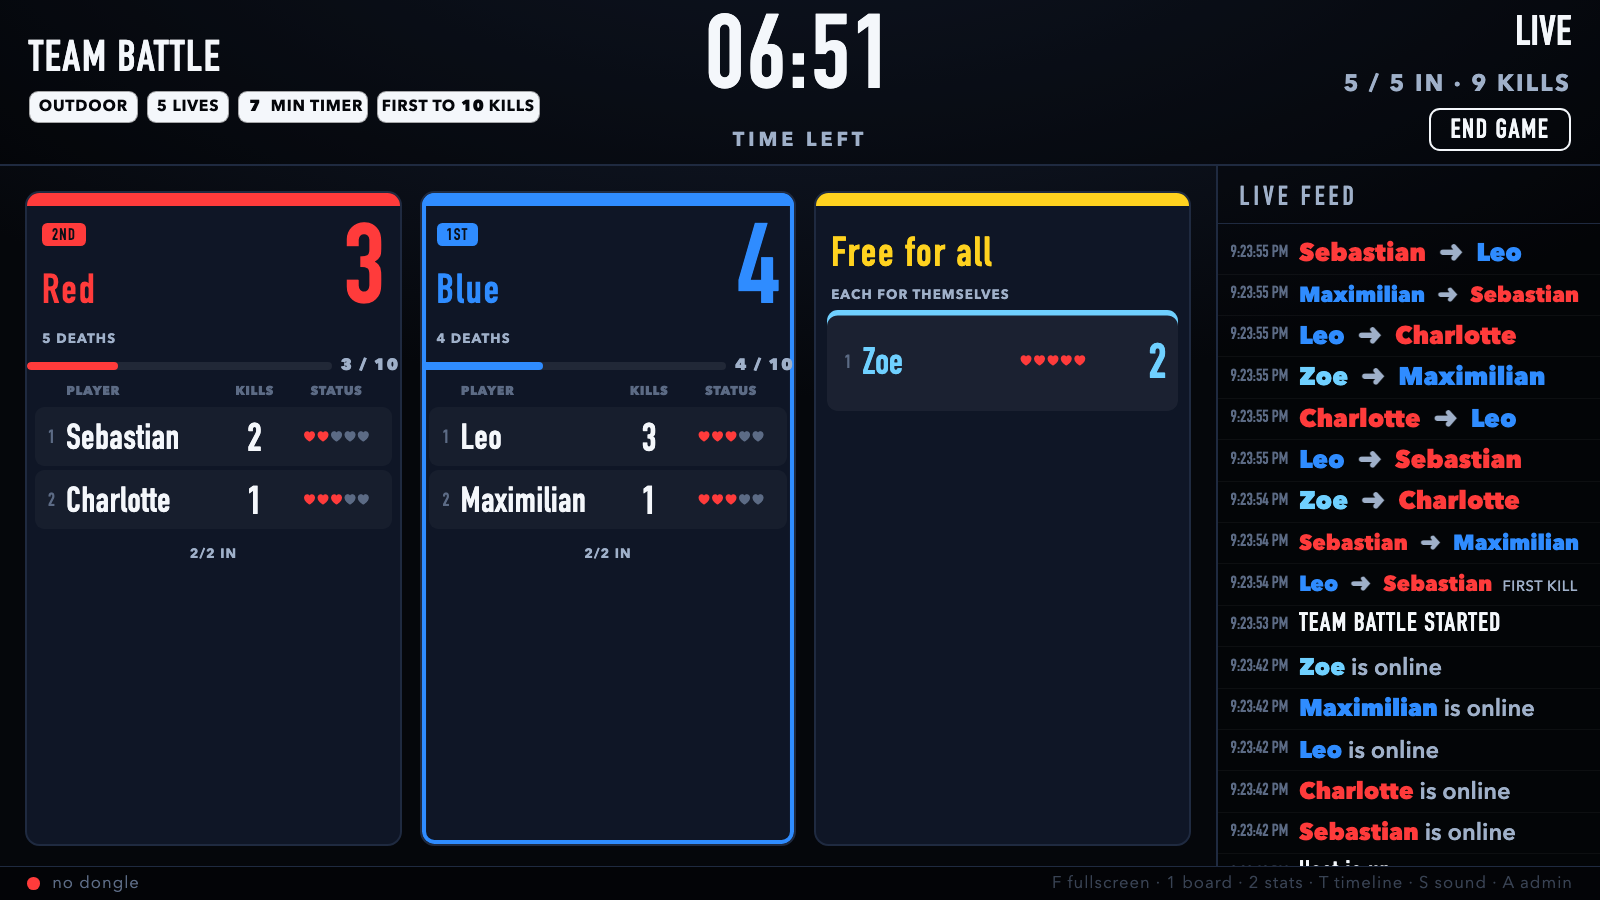
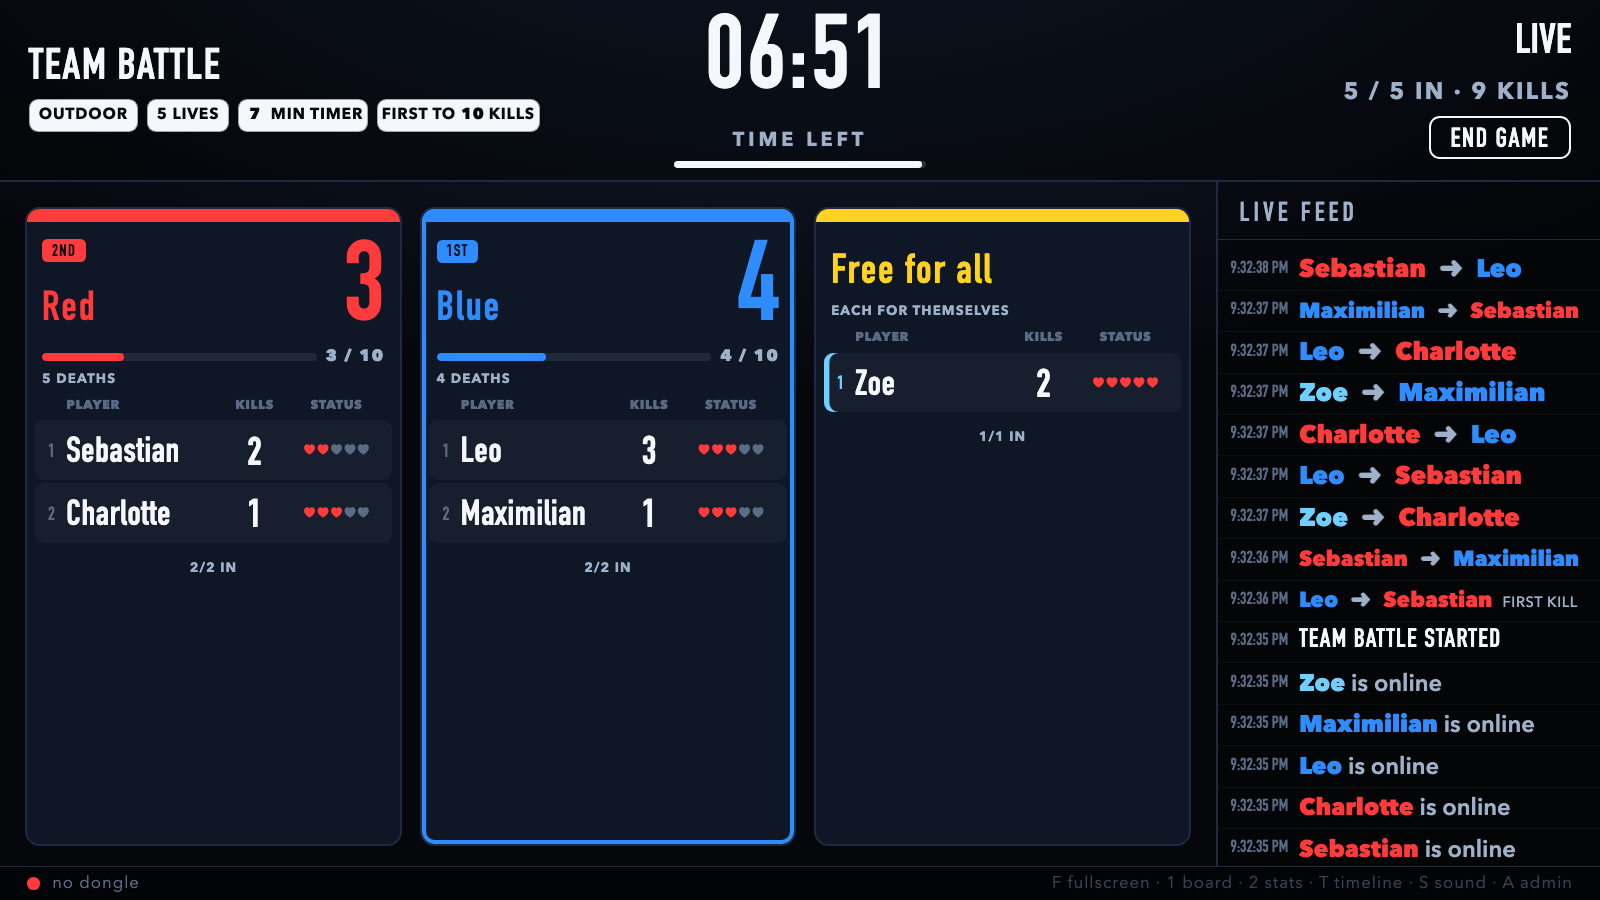
Wall: wolves as roster rows, target bar above deaths, time bar under the clock
Lone wolves get the same row as anyone on a team (white name, their colour as an
accent, PLAYER / KILLS / STATUS header). The kill-target bar sits under the score with
the column's own padding, before the deaths line. A white bar under the clock drains
with the timer.

diff --git a/web/wall.js b/web/wall.js
@@ -167,6 +167,9 @@
     const g = snap.game, c = g.clock || {};
     const el = $("clock"), lbl = $("clockLabel");
     el.className = "clock";
+    const bar = $("clockBar"), fill = $("clockFill");
+    const barOn = !!(c.limit_s && c.elapsed_s != null && g.phase === "live");
+    if (bar) bar.classList.toggle("on", barOn);
     if (g.phase === "idle") { el.textContent = new Date().toLocaleTimeString([], { hour: "numeric", minute: "2-digit" }); lbl.textContent = "WAITING FOR A GAME"; return; }
     if (g.phase === "lobby") { el.textContent = "READY"; lbl.textContent = "PICK TEAMS · HOST STARTS"; return; }
     let elapsed = c.elapsed_s;
@@ -174,6 +177,7 @@
     if (elapsed == null) { el.textContent = "--:--"; lbl.textContent = ""; return; }
     if (c.limit_s) {
       const left = c.limit_s - elapsed;
+      if (fill) fill.style.width = `${Math.max(0, Math.min(100, 100 * left / c.limit_s))}%`;
       el.textContent = W.mmss(left);
       if (left <= 0) { el.textContent = g.phase === "ended" ? W.mmss(Math.min(elapsed, c.limit_s)) : "0:00"; el.classList.add("over"); lbl.textContent = g.phase === "ended" ? (g.end_reason === "time_expired" ? "TIME'S UP · FINAL" : "FINAL TIME") : "TIME! WAITING FOR HOST"; }
       else { if (left < 60) el.classList.add("warn"); lbl.textContent = g.phase === "ended" ? "TIME LEFT AT END" : "TIME LEFT"; }
@@ -502,8 +506,9 @@
   function wolvesHtml(list, wd, showStatus, maxRows) {
     list = list.sort(scoreSort);
     const ranks = rankLabels(list, scoreKey);
-    const cards = list.map((p, i) => `<div class="wolf ${p.eliminated ? "out" : ""} ${p.online ? "" : "offline"}" style="--tc:${pColor(p)}" data-n="${p.number}" data-key="w-${p.number}"><span class="w-rank">${ranks[i]}</span><span class="w-name">${W.esc(p.display_name)}</span><span class="w-status" data-f="lives">${showStatus ? livesHtml(p) : ""}</span><span class="w-score" data-f="kills">${p.kills}</span></div>`).join("");
-    return `<div class="team-col wolves ${list.length >= 6 ? "dense" : ""}" style="--tc:var(--t2);--rows:${maxRows}" data-key="col2"><div class="team-head"><div class="team-name">${teamName(2)}</div><div class="team-score lone"></div></div><div class="team-sub">EACH FOR THEMSELVES</div><div class="wolf-stack">${cards}</div></div>`;
+    const rows = list.map((p, i) => `<div class="p-row wolf ${p.eliminated ? "out" : ""} ${p.online ? "" : "offline"}" style="--tc:${pColor(p)}" data-n="${p.number}" data-key="w-${p.number}"><span class="p-rank">${ranks[i]}</span><span class="p-name">${W.esc(p.display_name)}</span><span class="p-k" data-f="kills">${p.kills}</span><span class="p-d" data-f="deaths">${p.deaths}</span><span class="p-status" data-f="lives">${livesHtml(p)}</span></div>`).join("");
+    const foot = showStatus && list.length ? `<div class="team-foot">${list.filter(p => p.alive).length}/${list.length} IN</div>` : "";
+    return `<div class="team-col wolves ${maxRows >= 6 ? "dense" : ""}" style="--tc:var(--t2);--rows:${maxRows}" data-key="col2"><div class="team-head"><div class="team-name">${teamName(2)}</div><div class="team-score lone"></div></div><div class="team-sub">EACH FOR THEMSELVES</div><div class="roster"><div class="roster-head"><span></span><span>PLAYER</span><span>${wd.K}</span><span>${wd.D}</span><span>STATUS</span></div>${rows}</div>${foot}</div>`;
   }
 
   // ---- host mode: this board as the admin headset ----------------------------------
@@ -728,7 +733,7 @@
       const label = tiedWith === sides ? "TIED" : (tiedWith > 1 ? `TIED ${ordinal}` : ordinal);
       const rankPill = !lone && topScore > 0 && !squads ? `<div class="team-rank">${label}</div>` : "";
       if (lone) parts.length = 0, parts.push("EACH FOR THEMSELVES");
-      return `<div class="team-col ${maxRows >= 6 ? "dense" : ""} ${lead ? "lead" : ""}" style="--tc:${tc};--rows:${maxRows}" data-key="col${t}">${rankPill}<div class="team-head"><div class="team-name">${tname}</div><div class="team-score${lone ? " lone" : ""}" data-team="${t}">${lone ? "" : (row.score ?? row.kills)}</div></div>${sub}${target}<div class="roster"><div class="roster-head"><span></span><span>PLAYER</span><span>${wd.K}</span><span>${wd.D}</span><span>STATUS</span></div>${rows}</div>${showStatus ? `<div class="team-foot">${row.alive}/${list.length} IN</div>` : ""}</div>`;
+      return `<div class="team-col ${maxRows >= 6 ? "dense" : ""} ${lead ? "lead" : ""}" style="--tc:${tc};--rows:${maxRows}" data-key="col${t}">${rankPill}<div class="team-head"><div class="team-name">${tname}</div><div class="team-score${lone ? " lone" : ""}" data-team="${t}">${lone ? "" : (row.score ?? row.kills)}</div></div>${target}${sub}<div class="roster"><div class="roster-head"><span></span><span>PLAYER</span><span>${wd.K}</span><span>${wd.D}</span><span>STATUS</span></div>${rows}</div>${showStatus ? `<div class="team-foot">${row.alive}/${list.length} IN</div>` : ""}</div>`;
     }).join("");
     if (order.length === 1 && order[0] !== 2) {
       // A team battle always has at least two teams: hold the second slot open instead of

diff --git a/web/styles.css b/web/styles.css
@@ -302,16 +302,6 @@ body{font-size:2.4vmin;line-height:1.2}
 .team-score.lone{visibility:hidden}
 
 /* ---------- lone wolves: one card per free-for-all player, stacked in the free-for-all column ---------- */
-.team-col.wolves .wolf-stack{display:flex;flex-direction:column;gap:1vmin;padding:0 3cqw 1.4vmin;min-height:0;flex:1}
-.wolf{display:grid;grid-template-columns:5cqw minmax(0,1fr) 22cqw 16cqw;align-items:center;gap:1.5cqw;padding:.8vmin 3cqw;border-radius:1.2vmin;background:rgba(255,255,255,.05);box-shadow:inset 0 .6vmin 0 0 var(--tc);min-height:0;flex:0 1 calc(var(--rowh,9vmin) * 1.7);overflow:hidden}
-.wolf.out{opacity:.45}
-.wolf .w-rank{font-family:var(--display);font-size:clamp(1.5vmin,5cqw,2.8vmin);color:var(--ink3);text-align:center;position:relative;top:var(--nudge-display)}
-.wolf .w-name{font-family:var(--display);font-size:min(clamp(2.6vmin,10cqw,4.6vmin),calc(var(--rowh,9vmin) * .8));color:var(--tc);white-space:nowrap;overflow:hidden;min-width:0;line-height:1.25;position:relative;top:var(--nudge-display)}
-.wolf .w-status{text-align:center;font-size:clamp(1.3vmin,4cqw,2vmin);font-weight:800;letter-spacing:.08em;text-transform:uppercase}
-.wolf .w-status .lives{letter-spacing:0;font-size:clamp(1.1vmin,3.6cqw,1.8vmin);color:var(--bad);white-space:nowrap}
-.wolf .w-status .lives .off{color:var(--ink3)}
-.wolf .w-status .out{color:var(--ink3)} .wolf .w-status .alive{color:var(--ink2)}
-.wolf .w-score{font-family:var(--display);font-size:min(clamp(3.2vmin,13cqw,6vmin),calc(var(--rowh,9vmin) * .95));text-align:right;color:var(--tc);position:relative;top:var(--nudge-display)}
 .teams.hearts .wolf{grid-template-columns:5cqw minmax(0,1fr) 26cqw 16cqw}
 
 .hostbtn>span{display:inline-block;position:relative;top:var(--nudge-display)}   /* the condensed face sits high: use the measured nudge */
@@ -345,10 +335,12 @@ body{font-size:2.4vmin;line-height:1.2}
 .collapsed .segb,.collapsed .stepper,.collapsed .arrow{cursor:default;pointer-events:none}
 .collapsed .segb:not(.on),.collapsed .stepper:not(.on),.collapsed .stepper .arrow{max-width:0;padding:0;opacity:0;overflow:hidden}
 .collapsed .seg[data-k="target"]:has(.segb.on){max-width:0;opacity:0;margin-left:-1vmin;border-width:0}   /* "no target" says nothing mid-game */
-/* a team game where everyone so far picked free-for-all: the wolves' cards fill the board, two abreast */
-.teams.wolves-only .team-col.wolves .wolf-stack{display:grid;grid-template-columns:repeat(2,minmax(0,1fr));align-content:start;gap:1vmin 1.4vmin}
-.teams.wolves-only .wolf{grid-template-columns:2.6cqw minmax(0,1fr) 12cqw 7cqw;padding:.9vmin 1.6cqw}
-.teams.wolves-only .wolf .w-name{font-size:min(clamp(2.6vmin,5cqw,4.6vmin),calc(var(--rowh,9vmin) * .8))}
-.teams.wolves-only .wolf .w-rank{font-size:clamp(1.5vmin,2.4cqw,2.8vmin)}
-.teams.wolves-only .wolf .w-score{font-size:min(clamp(3.2vmin,6cqw,6vmin),calc(var(--rowh,9vmin) * .95))}
-.teams.wolves-only .wolf .w-status{font-size:clamp(1.3vmin,2cqw,2vmin)} .teams.wolves-only .wolf .w-status .lives{font-size:clamp(1.1vmin,1.8cqw,1.8vmin)}
+/* lone wolves are roster rows like anyone else, with their own colour as an accent; the name stays white */
+.p-row.wolf{box-shadow:inset .6vmin 0 0 0 var(--tc)}
+.p-row.wolf .p-rank{color:var(--tc)}
+/* the kill-target bar keeps the column's own side padding */
+.team-col .target{padding:0 4cqw .5vmin}
+/* a timer's remaining share, under the clock */
+.clock-bar{display:none;width:28vmin;height:.7vmin;border-radius:.35vmin;background:rgba(255,255,255,.14);overflow:hidden;margin-top:.4vmin}
+.clock-bar.on{display:block}
+.clock-fill{height:100%;width:100%;background:var(--ink);border-radius:.35vmin;transition:width .9s linear}

diff --git a/web/index.html b/web/index.html
@@ -16,6 +16,7 @@
     <div class="tb-center">
       <div class="clock" id="clock">--:--</div>
       <div class="clock-label" id="clockLabel">WAITING</div>
+      <div class="clock-bar" id="clockBar"><div class="clock-fill" id="clockFill"></div></div>
     </div>
     <div class="tb-right">
       <div class="phase-badge" id="phaseBadge"><span id="phaseText">IDLE</span></div>
